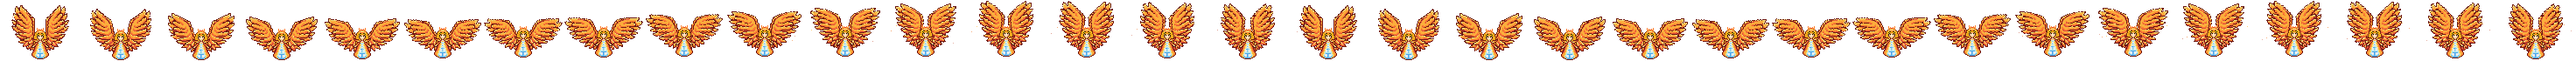
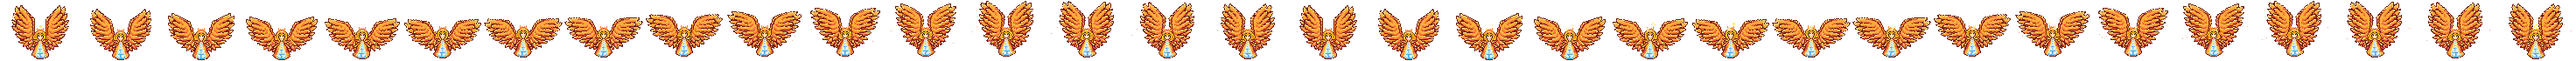
Mary-Animation: Haare wehen, Kopf wippt, Hände flattern, Saum schwingt, Kleid flackert, Krone glänzt und glitzert
Claude-Session: https://claude.ai/code/session_01RGNNCJqx66xqfQieuakpGz

diff --git a/scripts/hero-animations/mary.py b/scripts/hero-animations/mary.py
@@ -13,13 +13,17 @@ src/cute-princess-mary.png).
 * Fliegen: beim Abschlag wird Mary nach oben gedrückt, beim Aufschlag sinkt
   sie etwas ab.
 * Glut: von den Flügelspitzen lösen sich beim Abschlag kleine Funken.
+* Körper (`body_layer`): die Haare wehen (Strähnen am Kopf werden zeilenweise gedehnt bzw. gestaucht, die langen Locken schwingen am
+  weitesten), der Kopf wippt mit leichter Verzögerung gegen den Rumpf, die Hände flattern, der Saum des Kleides schwingt, und das
+  Feuer am Kleid flackert (Farben wandern auf der Leiter Rot → Orange → Gelb nach oben).
+* Krone: ein Lichtband wandert einmal pro Schleife über die Krone; danach blitzen Glitzersterne über den Zacken auf.
 """
 import math
 import sys
 from collections import Counter
 from PIL import Image
 import numpy as np
-from anim_common import save_outputs
+from anim_common import rgb, step, sweep_level, draw_sparkles, save_outputs
 
 BODY = np.array(Image.open('src/cute-princess-mary-body.png').convert('RGBA')).astype(int)
 WINGS = np.array(Image.open('src/cute-princess-mary-wings.png').convert('RGBA')).astype(int)
@@ -87,6 +91,93 @@ def sample_wing(side, i, x, y, oy):
     return col
 
 
+# --- Körper: Haare, Kopfwippen, Hände, Saum, Flackern, Krone -------------------------------------------------------------------------
+MIRROR = 77                                  # x' = 77 − x spiegelt links ↔ rechts (Gesichtsmitte zwischen x = 38 und 39)
+HAIR = {26: (33, 35), 27: (32, 35), 28: (32, 35), 29: (32, 35), 30: (31, 35), 31: (31, 35), 32: (31, 35), 33: (31, 35),   # Strähnen am Kopf
+        37: (31, 32), 38: (31, 32)}                                                                                         # lange Locken
+HEAD0, HEAD1 = 21, 33                         # Kopf-Zeilen (Krone bis Kinn)
+FLAME_LADDER = [(0xde, 0x50, 0x3c), (0xfc, 0x7e, 0x32), (0xfb, 0xae, 0x3c)]             # Rot → Orange → Gelb (Feuer am Kleid)
+CROWN_LADDER = [(0xde, 0x50, 0x3c), (0xfc, 0x7e, 0x32), (0xfb, 0xae, 0x3c), (0xf5, 0xe2, 0x84), (0xff, 0xe6, 0x7f), (0xfc, 0xe7, 0xd6)]
+CROWN = (35, 42, 21, 25)                      # x0, x1, y0, y1 der Krone
+SPARKS = [(42, 18, 18), (35, 18, 24), (39, 19, 29)]   # Glitzersterne über den Zacken: (x, y, Startframe)
+
+
+def hair_shift(y, i):
+    """Seitlicher Versatz der äußeren Kante der Strähnen in Zeile y (Wind von links, Welle läuft nach unten)."""
+    amp = 0.35 + 0.17 * (y - 26) if y < 34 else 2.1
+    return int(round(amp * math.sin(2 * math.pi * (i % N) / N - 0.38 * (y - 26))))
+
+
+def warp_row(row, xa, xb, d, side):
+    """Strähne in Zeile `row` zwischen xa..xb: Außenkante um d Pixel nach außen (d < 0: nach innen), die Innenkante bleibt stehen.
+    Die Pixel werden gedehnt bzw. gestaucht, es entstehen weder Lücken noch neue Farben."""
+    src = row[xa:xb + 1].copy()
+    n_src = xb - xa + 1
+    n_out = max(2, n_src + d)
+    out = np.zeros_like(row)
+    for j in range(n_out):
+        c = src[int(round(j * (n_src - 1) / (n_out - 1)))]
+        x = xb - n_out + 1 + j if side < 0 else xa + j
+        out[x] = c
+    return out
+
+
+def body_layer(i):
+    ph = phase(i)
+    out = BODY.copy()
+    # 1) Haare wehen
+    for y, (xa, xb) in HAIR.items():
+        w = hair_shift(y, i)
+        for side in (-1, 1):
+            a, b = (xa, xb) if side < 0 else (MIRROR - xb, MIRROR - xa)
+            d = -w if side < 0 else w
+            lo, hi = (a - 3, b) if side < 0 else (a, b + 3)
+            out[y, lo:hi + 1] = 0
+            seg = warp_row(BODY[y], a, b, d, side)
+            out[y, lo:hi + 1] = np.where(seg[lo:hi + 1, 3:4] > 0, seg[lo:hi + 1], out[y, lo:hi + 1])
+    # 2) Kopf wippt (leicht verzögert gegen den Rumpf); die Kinn-Zeile bleibt als Hals darunter stehen
+    dy_h = int(round(0.8 * math.sin(ph - 3.2)))
+    head = out[HEAD0:HEAD1 + 1].copy()
+    out[HEAD0:HEAD1] = 0
+    for y in range(head.shape[0]):
+        for x in range(SW):
+            if head[y, x, 3]:
+                out[HEAD0 + y + dy_h, x] = head[y, x]
+    # 3) Hände flattern
+    dy_a = int(round(1.0 * math.sin(ph - 1.6)))
+    if dy_a:
+        for xs in (range(29, 33), range(45, 49)):
+            hand = {(x, y): out[y, x].copy() for y in range(41, 44) for x in xs if out[y, x, 3] and tuple(out[y, x, :3]) in HAND}
+            for (x, y) in hand:
+                out[y, x] = 0
+            for (x, y), c in hand.items():
+                out[y + dy_a, x] = c
+    # 4) Saum schwingt
+    for y in range(48, 56):
+        dx = int(round(math.sin(ph - 2.2 - 0.3 * (y - 47)) * (y - 47) / 7.0 * 1.2))
+        if dx:
+            out[y, 27:51] = np.roll(out[y, 27:51], dx, axis=0)
+    # 5) Feuer am Kleid flackert (Farben wandern auf der Leiter)
+    for y in range(34, 57):
+        for x in range(SW):
+            if out[y, x, 3] and tuple(out[y, x, :3]) in FLAME_LADDER:
+                s = int(round(1.0 * math.sin(ph * 1.0 + 0.7 * x + 0.5 * y)))
+                if s:
+                    out[y, x, :3] = step(FLAME_LADDER, tuple(out[y, x, :3]), s)
+    # 6) Lichtband über die Krone
+    x0, x1, y0, y1 = CROWN
+    for y in range(y0 - 1, y1 + 1):
+        for x in range(x0, x1 + 1):
+            if out[y + dy_h, x, 3] and tuple(out[y + dy_h, x, :3]) in CROWN_LADDER:
+                lv = sweep_level(x, y, i, N, speed=1.25, slope=0.8, offset=29.0)
+                if lv:
+                    out[y + dy_h, x, :3] = step(CROWN_LADDER, tuple(out[y + dy_h, x, :3]), lv + 1)
+    return out, dy_h
+
+
+HAND = {(0x59, 0x20, 0x0c), (0xf0, 0xca, 0x9e)}                  # Handfarben (Umriss, Haut)
+
+
 EMBER = [(255, 236, 170), (255, 190, 80), (240, 120, 40), (190, 60, 30)]
 
 
@@ -100,11 +191,12 @@ def frame(i):
                 c = sample_wing(side, i, x, y, oy)
                 if c is not None:
                     out[y, x] = c
-    # Körper
+    # Körper (Haare, Kopf, Hände, Saum, Feuer, Krone: siehe body_layer)
+    body, dy_h = body_layer(i)
     for y in range(SH):
         for x in range(SW):
-            if BODY[y, x, 3]:
-                out[y + PT + oy, x + PL] = BODY[y, x]
+            if body[y, x, 3]:
+                out[y + PT + oy, x + PL] = body[y, x]
     # Funken von den Flügelspitzen (Abschlag)
     for k in range(6):
         t = (i + k * 5) % 12
@@ -124,6 +216,8 @@ def frame(i):
         xx, yy = int(round(ex)), int(round(ey))
         if 0 <= xx < W and 0 <= yy < H and out[yy, xx, 3] == 0:
             out[yy, xx] = (*EMBER[min(3, t // 2)], 255 - t * 22)
+    # Glitzersterne über der Krone (folgen dem Körper)
+    draw_sparkles(out, i, N, [(x + PL, y + PT + oy + dy_h, st) for x, y, st in SPARKS], rgb('ffef93'), rgb('ffd900'))
     return out
 
 
